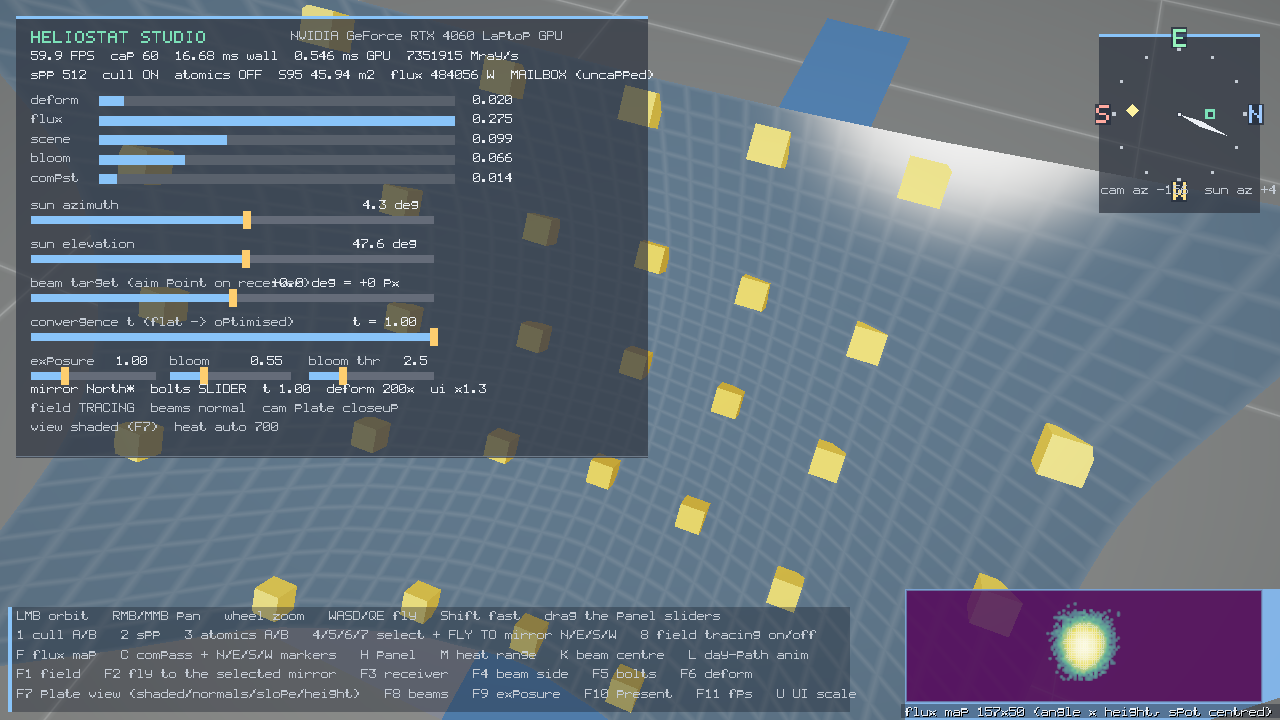
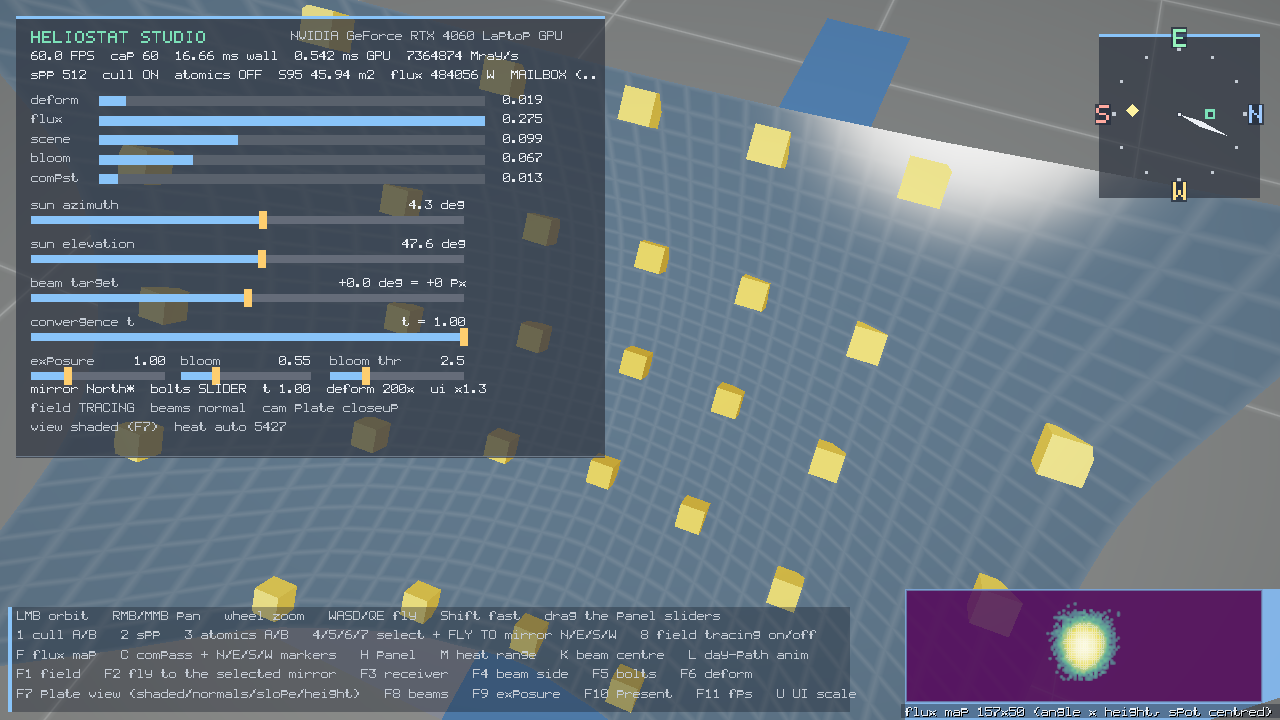
Panel fixes: aim-target readout, fixed panel width, working U key
- HudStats.aimOffsetDeg / fluxCeil / fluxPeak / heatAutoRange were read by the HUD
  but never assigned in viz_main.cpp, so the beam-target slider was frozen at
  0.0 deg = +0 px, the heat range always read "auto" and the inset caption always
  showed peak 0. All four are wired now.
- the slider value is right-aligned but clamped so it cannot run over its label
  (that is what made "beam target" and its value overlap)
- panel width is now a fixed value instead of following the content, so it no longer
  jumps when a readout changes width; overlong lines are truncated with ".."
- U now pushes the scale into the HUD (it only changed a variable before)
- removed the compass caption that overlapped the rose and was clipped
- docs/faq.md gained a "where to tune the UI" section and the missing-field check

diff --git a/viz/src/hud.cpp b/viz/src/hud.cpp
@@ -232,7 +232,7 @@ void Hud::textShadow(float x, float y, const std::string &s, float r, float g, f
 void Hud::compass(float cx, float cy, float radius, const HudStats &st) {
     cx = std::round(cx);
     cy = std::round(cy);
-    rect(cx - radius - 10.0f, cy - radius - 10.0f, 2.0f * radius + 20.0f, 2.0f * radius + 34.0f, kBg[0], kBg[1],
+    rect(cx - radius - 10.0f, cy - radius - 10.0f, 2.0f * radius + 20.0f, 2.0f * radius + 22.0f, kBg[0], kBg[1],
          kBg[2], kBg[3]);
     rect(cx - radius - 10.0f, cy - radius - 10.0f, 2.0f * radius + 20.0f, 2.0f, kBlue[0], kBlue[1], kBlue[2]);
 
@@ -319,10 +319,8 @@ void Hud::compass(float cx, float cy, float radius, const HudStats &st) {
         rect(p.first - 4.0f, p.second - 4.0f, 8.0f, 8.0f, kGreen[0], kGreen[1], kGreen[2]);
         rect(p.first - 2.0f, p.second - 2.0f, 4.0f, 4.0f, kBg[0], kBg[1], kBg[2]);
     }
-    char buf[128];
-    std::snprintf(buf, sizeof(buf), "cam az %+.0f  sun az %+.0f / el %+.0f", st.cameraAzimuthDeg, st.sunAzimuth,
-                  st.sunElevation);
-    text(cx - radius - 8.0f, cy + radius + 2.0f, buf, kDim[0], kDim[1], kDim[2], 1.0f);
+    // No text under the rose: the "cam az / sun az" line overlapped the compass and was
+    // clipped, and both values are already shown in the panel and on the ground markers.
 }
 
 void Hud::bar(float x, float y, float w, float h, float frac, float r, float g, float b) {    frac = clampf(frac, 0.0f, 1.0f);
@@ -350,7 +348,13 @@ void Hud::slider(int id, float x, float y, float w, const char *label, float val
     m_sliders.push_back(s);
 
     text(x, y, label, kDim[0], kDim[1], kDim[2], 1.0f);
-    text(x + w - textWidth(valueText, 1.0f), y, valueText, kText[0], kText[1], kText[2], 1.0f);
+    // Right-align the value inside the track, but never let it run over the label
+    // (that is what made "beam target" and its value sit on top of each other).
+    const float labelW = textWidth(label, 1.0f) / m_scale;
+    const float valueW = textWidth(valueText, 1.0f) / m_scale;
+    float valueX = x + w - valueW;
+    if (valueX < x + labelW + 8.0f) valueX = x + labelW + 8.0f;
+    text(valueX, y, valueText, kText[0], kText[1], kText[2], 1.0f);
 }
 
 // ---------------------------------------------------------------- build ----
@@ -377,9 +381,15 @@ void Hud::buildOnce(const HudStats &st, float dt) {
     // time, so the usable layout space is the frame size divided by the scale.
     const float hudW = static_cast<float>(m_extent.width) / m_scale;
     const float hudH = static_cast<float>(m_extent.height) / m_scale;
-    // The panel is a status column, not a full-width bar. The box is fitted to the
-    // widest line it actually draws (see the fit step at the end of this function).
-    const float panelW = clampf(hudW * 0.50f, 260.0f, 430.0f);
+    // The panel is a status column, not a full-width bar.
+    //
+    // The width is FIXED for a given window size (it does not follow the content), so
+    // it never jumps when a readout changes width -- S95 46.26 -> 226.67, a toast
+    // appearing, a longer mirror name. Lines that would be wider than the panel are
+    // truncated in line() instead. Tune the two numbers below to change the width:
+    //   hudW * 0.46  = share of the window width
+    //   300 .. 460   = clamps, in HUD units (1 HUD unit = 1 px at --hud-scale 1)
+    const float panelW = clampf(hudW * 0.46f, 300.0f, 460.0f);
     const float panelTop = pad;
     const float panelLeft = pad;
     const float x0 = panelLeft + pad;
@@ -422,12 +432,14 @@ void Hud::buildOnce(const HudStats &st, float dt) {
     char buf[256];
     float y = panelTop + pad;
     auto newline = [&]() { y += lineH; };
-    // Every panel line goes through this: it emits the text and tracks the widest one
-    // so the panel box can be fitted to it.
-    float textW = 0.0f;
+    // Every panel line goes through this: it truncates to the panel width (so a long
+    // readout can never spill outside the box, and never widens it either).
+    const float textBudget = panelW - 2.0f * pad;
+    const size_t maxChars = static_cast<size_t>(textBudget / (kFontWidth + 1.0f));
     auto line = [&](const char *s, const float *col) {
-        text(x0, y, s, col[0], col[1], col[2], 1.0f);
-        textW = std::max(textW, textWidth(s, 1.0f) / m_scale);
+        std::string t(s);
+        if (t.size() > maxChars) t = t.substr(0, maxChars > 2 ? maxChars - 2 : maxChars) + "..";
+        text(x0, y, t, col[0], col[1], col[2], 1.0f);
     };
     const size_t bgStart = m_cpu.size();
     text(x0, y, "HELIOSTAT STUDIO", kGreen[0], kGreen[1], kGreen[2], scale);
@@ -483,11 +495,11 @@ void Hud::buildOnce(const HudStats &st, float dt) {
     // does), so this is the control that walks the spot across the receiver.
     std::snprintf(buf, sizeof(buf), "%+.1f deg = %+.0f px", st.aimOffsetDeg,
                   st.aimOffsetDeg / 360.0f * 157.0f);
-    slider(6, x0, y, sw, "beam target (aim point on receiver)", (st.aimOffsetDeg + 60.0f) / 120.0f, buf);
+    slider(6, x0, y, sw, "beam target", (st.aimOffsetDeg + 60.0f) / 120.0f, buf);
     newline();
     newline();
     std::snprintf(buf, sizeof(buf), "t = %.2f", st.convergence);
-    slider(3, x0, y, sw, "convergence t (flat -> optimised)", st.convergence, buf);
+    slider(3, x0, y, sw, "convergence t", st.convergence, buf);
     newline();
     newline();
     std::snprintf(buf, sizeof(buf), "%.2f", st.exposure);
@@ -549,24 +561,22 @@ void Hud::buildOnce(const HudStats &st, float dt) {
     }
 
     // ---- fit the panel box to what was actually drawn ----
-    // Both dimensions come from the emitted content, and the background quads are
-    // *prepended* to the vertex list (the HUD blends in draw order, so the box has to
-    // be drawn before the text it sits behind).
+    // Height comes from the emitted content; the width is the fixed value above. The
+    // background quads are prepended to the vertex list because the HUD blends in draw
+    // order, so the box has to be drawn before the text it sits behind.
     {
         const float contentH = y + pad - panelTop;
         const float avail = hudH - 2.0f * pad;
-        const float neededW = std::min(textW + pad + 6.0f, hudW - 2.0f * pad);
-        m_lastContentFits = (contentH <= avail) && (textW + pad + 6.0f <= hudW - 2.0f * pad);
+        m_lastContentFits = (contentH <= avail) && (panelW + pad <= hudW - pad);
         const float panelH = std::min(contentH, avail);
         m_panelHeight = panelH + pad;
-        m_panelWidth = neededW + pad;
+        m_panelWidth = panelW + pad;
 
-        // Keep the content, emit the background, then append the content again.
         const std::vector<Vertex> content(m_cpu.begin() + static_cast<ptrdiff_t>(bgStart), m_cpu.end());
         m_cpu.resize(bgStart);
-        rect(panelLeft, panelTop, neededW, panelH, kBg[0], kBg[1], kBg[2], kBg[3]);
-        rect(panelLeft, panelTop, neededW, 2.0f, kBlue[0], kBlue[1], kBlue[2]);
-        rect(panelLeft, panelTop + panelH - 1.0f, neededW, 1.0f, kPanelLine[0], kPanelLine[1],
+        rect(panelLeft, panelTop, panelW, panelH, kBg[0], kBg[1], kBg[2], kBg[3]);
+        rect(panelLeft, panelTop, panelW, 2.0f, kBlue[0], kBlue[1], kBlue[2]);
+        rect(panelLeft, panelTop + panelH - 1.0f, panelW, 1.0f, kPanelLine[0], kPanelLine[1],
              kPanelLine[2]);
         m_cpu.insert(m_cpu.end(), content.begin(), content.end());
     }

diff --git a/viz/src/viz_main.cpp b/viz/src/viz_main.cpp
@@ -1151,6 +1151,14 @@ int WINAPI wWinMain(HINSTANCE, HINSTANCE, LPWSTR, int) {
                 }
                 ui.hudScale = ladder[(idx + 1) % 6];
                 hudScaleLocked = ui.hudScale > 0.0f;
+                // The scale has to be pushed into the HUD here: applyAutoScale() returns
+                // early while the scale is pinned, so setting ui.hudScale alone did
+                // nothing on screen.
+                if (hudScaleLocked) {
+                    hud.setScale(ui.hudScale);
+                } else {
+                    applyAutoScale(ctx.extent());
+                }
                 toast(ui.hudScale > 0.0f ? ("U -> UI scale " + trimFloat(ui.hudScale))
                                          : std::string("U -> UI scale AUTO"));
             }
@@ -1664,6 +1672,10 @@ int WINAPI wWinMain(HINSTANCE, HINSTANCE, LPWSTR, int) {
                 hs.gravity = fs2.gravityEnabled;
                 hs.s95Area = ui.s95Area;
                 hs.fluxSum = ui.fluxSum;
+                hs.fluxPeak = ui.fluxPeak;
+                hs.fluxCeil = ui.fluxCeil;
+                hs.heatAutoRange = ui.heatAutoRange;
+                hs.aimOffsetDeg = ui.aimOffsetDeg;
                 hs.convergence = ui.convergence;
                 hs.deformScale = sin.deformScale;
                 hs.exposure = ui.exposure;

diff --git a/docs/faq.md b/docs/faq.md
@@ -5,6 +5,24 @@
 
 ---
 
+## 0. 界面尺寸想手动调优，改哪里？
+
+| 想改什么 | 位置 |
+|---|---|
+| 面板宽度 | `viz/src/hud.cpp`，`Hud::buildOnce` 顶部：`const float panelW = clampf(hudW * 0.46f, 300.0f, 460.0f);`（`hudW` 是窗口宽度除以 UI 比例；两个数字分别是"占窗口比例"与"上下限"，单位是 HUD 单位，1 HUD 单位 = UI 比例 1 时的 1 px） |
+| 面板内边距 / 行高 | `viz/src/hud.cpp`，同函数开头的 `pad` 与 `lineH` |
+| 面板位置 | 同函数开头的 `panelLeft` / `panelTop` |
+| 面板内容行数 | 同函数中段的表头 3 行、pass 表 5 行、滑杆 4 行 × 2、状态 3 行；行数变了高度会跟着变（高度始终按内容测量，不会裁剪） |
+| 滑杆长度与分布 | 同函数：`const float sw = panelW - 2.0f * pad - 96.0f;`（`sw` 是长滑杆宽度，曝光/bloom 三个短滑杆取 `sw * 0.31` 等比例） |
+| UI 与字体总体比例 | 运行期按 `U` 循环，或 `--hud-scale <f>` 钉死；自动档位在 `viz/src/viz_main.cpp` 的 `applyAutoScale`（1 / 1.5 / 2 / 3 四档，阈值 `fit >= 1.4 / 1.9 / 2.8`） |
+| 左下角操作指南 | `viz/src/hud.cpp`，`help[5]` 数组（改文字即可，底板宽度会自动跟随） |
+| 罗盘位置与半径 | `viz/src/hud.cpp` 中 `compass(cx, cy, 52.0f, st)` 的调用点，以及 `Hud::compass` 内部 |
+
+面板宽度是**固定值**（不随内容变化），所以调一次就稳定；超出宽度的行会被截断为 `..`，
+而不是把面板撑宽。高度仍按实际内容测量，日轨演示会多两行。
+
+---
+
 ## 1. bloom 是什么？为什么调高之后会出现意料之外的亮斑？
 
 bloom 的链路是"亮通道 → 多级降采样模糊 → 上采样叠加"：先把超过阈值的亮度抠出来，
@@ -128,19 +146,34 @@ boltHeight = t × optimizedHeight
 ## 7. 每个按键做什么？
 
 每个按键都会在面板显示一行提示（约 3.5 秒）并写入日志，所以"开关生效了但画面变化不明显"
-和"按键没生效"可以区分。其中 `8` 与 `[` `]` 曾经是真 bug：
+和"按键没生效"可以区分。下面这几条曾经是真 bug：
 
 | 按键 | 作用 | 备注 |
 |---|---|---|
-| `M` | 热力图量程 自动 ↔ 固定 | 自动档按回读峰值 ×1.25 跟随；固定档把上限钉在当前值。峰值稳定时画面几乎不变，看面板 `heat auto/FIXED` |
+| `M` | 热力图量程 自动 ↔ 固定 | 自动档按回读峰值 ×1.25 跟随；固定档把上限钉在当前值。面板显示 `heat auto/FIXED` |
 | `8` | 镜场光追 开 / 关 | 关闭时整条 compute 链不记录：flux 段变成 0.000 ms（整帧 GPU 0.34 → 0.240 ms），接收器转冷态，S95 归零，镜场不再绘制。内核文件本身不变 |
 | `[` `]` | 微调收敛 `t` | 曾经完全无效：`[` `]` 不是 VK 码（Windows 上是 `VK_OEM_4`/`VK_OEM_6`），旧代码用 ASCII 比较永远不成立 |
+| `U` | UI 比例 | 曾经只改了变量、没把比例推给 HUD，所以屏幕上没反应；现在按一次立即重排。面板显示 `ui x…` |
 | `F4` | 机位：光束侧视 | 从选中镜方位 +60°、190 m 外侧看入射与反射光束 |
 | `F7` | 镜面视图四档 | 面板显示当前档名：`shaded` / `normals` / `slope error` / `height` |
 | `F8` | 光束三档 | `off` / `normal` / `strong (2×)`；光束是加性很淡的效果，面板显示当前档 |
 | `F9` | 曝光 ×1.25 | `Ctrl+9` 回退 |
-| `U` | UI 比例 | AUTO → 1 → 1.5 → 2 → 2.5 → 3 |
 | `F11` | 帧率上限 | 60 / 120 / 不限，HUD 首行显示当前值 |
+
+滑块或读数"不动"的同类问题还有一个：`HudStats` 的 `aimOffsetDeg`、`fluxCeil`、`fluxPeak`、
+`heatAutoRange` 四个字段在 HUD 里被读取，但在 `viz_main.cpp` 里从未赋值，所以瞄准点滑杆的
+数值恒为 0、固定量程显示恒为 auto、光斑图标题的峰值恒为 0。这类"读了但没赋值"的字段可以用
+
+```powershell
+python - <<'EOF'
+import re
+used = set(re.findall(r'st\.([A-Za-z_]\w*)', open('viz/src/hud.cpp', encoding='utf-8').read()))
+setv = set(re.findall(r'hs\.([A-Za-z_]\w*)\s*=', open('viz/src/viz_main.cpp', encoding='utf-8').read()))
+print('read but never set:', sorted(used - setv))
+EOF
+```
+
+检查，应当输出空列表。
 
 ---
 
